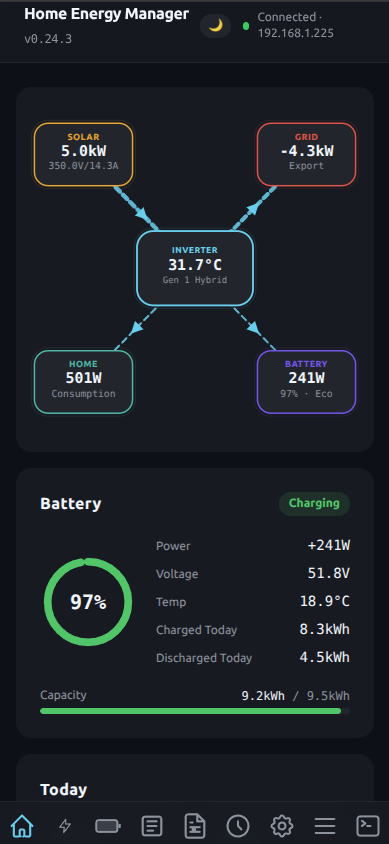
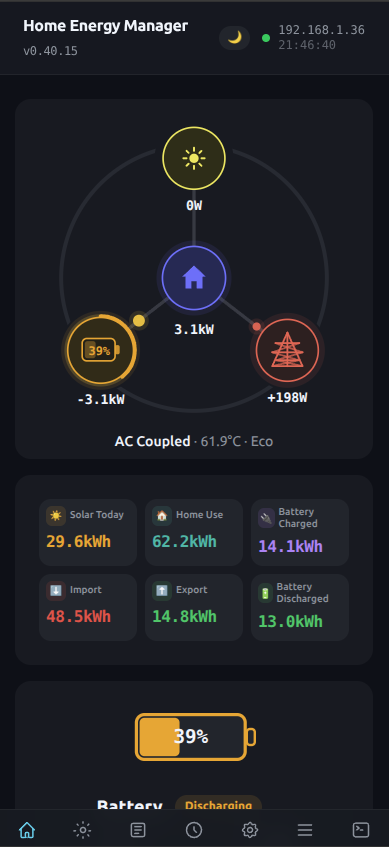
Release v0.41.0
- Bump version to 0.41.0 (package.json, Cargo.toml/lock, tauri.conf.json)
- CI resilience: cargo/rustup net retries (.cargo/config.toml + workflow env)
- Refresh screenshots (status, status-mobile, battery; add solar)

diff --git a/CHANGELOG.md b/CHANGELOG.md
@@ -4,6 +4,8 @@ All notable changes to this project will be documented in this file.
 
 ## [Unreleased]
 
+## [0.41.0] - 2026-06-26
+
 ### Fixed
 
 - **The manual Inverter Address field now validates like the EV Charger field.** Typing a malformed address (a missing octet, out-of-range numbers, letters) now turns the field red, shows a hint, and disables Connect instead of letting a bad host be saved and retried forever — the same IPv4 check the EV Charger field already had. See #153.
